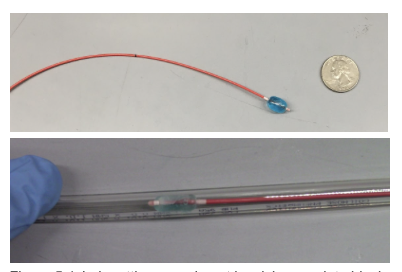
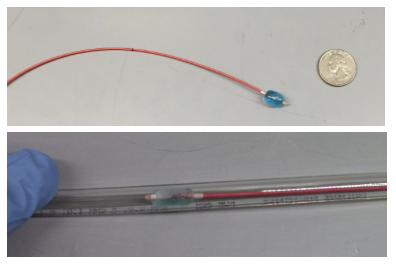
Update

diff --git a/index.html b/index.html
@@ -810,7 +810,7 @@
     </div>
 
     <div class="device-block">
-      <img class="device-photo" src="static/DEBUT_DEVICES/PUPIL_Device.png" alt="MeyeAttention">
+      <img class="device-photo" src="static/DEBUT_DEVICES/MeyeAttention_Device.png" alt="MeyeAttention">
       <div class="device-year">2025</div>
       <h3 class="device-name">MeyeAttention (Pupillometry-Based Attention Diagnostic System)</h3>
       <p class="device-desc">DEBUT developed MeyeAttention, a low-cost, wearable diagnostic support device designed to improve ADHD screening through objective measurement of attention dysregulation. The system uses infrared pupillometry during a brief visual oddball task and applies machine learning algorithms to analyze pupil responses associated with cognitive attention states. By reducing assessment time from hours to under 15 minutes, MeyeAttention enables faster and more accessible screening. The platform also has potential for broader neurological applications, including traumatic brain injury, migraines, and photophobia.</p>

diff --git a/styles.css b/styles.css
@@ -1064,8 +1064,7 @@ footer {
 
 .device-photo {
   width: 100%;
-  height: 200px;
-  object-fit: cover;
+  height: auto;
   border-radius: 4px;
   margin-bottom: 16px;
 }
